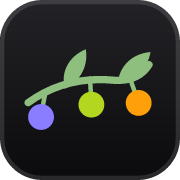
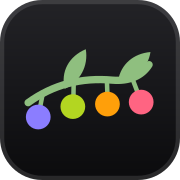
docs(site): give the Hedgerow mark a fourth berry for Wise Wren (#2)
The sprig now carries four berries, Vole violet, Newt lime, Kestrel amber and Wren rose, spaced evenly along the branch. The favicon PNG, Apple touch icon and OG image are regenerated from the SVG, and the OG image alt text names the four colours.

diff --git a/site/index.html b/site/index.html
@@ -32,7 +32,7 @@
     <meta property="og:image:type" content="image/png" />
     <meta property="og:image:width" content="1200" />
     <meta property="og:image:height" content="630" />
-    <meta property="og:image:alt" content="The Hedgerow mark, a sprig with three berries in violet, lime and amber, next to the tagline “Small, self-hosted apps that live together” and the icons of Vigilant Vole, Nimble Newt, Keen Kestrel and Wise Wren." />
+    <meta property="og:image:alt" content="The Hedgerow mark, a sprig with four berries in violet, lime, amber and rose, next to the tagline “Small, self-hosted apps that live together” and the icons of Vigilant Vole, Nimble Newt, Keen Kestrel and Wise Wren." />
     <meta name="twitter:card" content="summary_large_image" />
     <meta name="twitter:title" content="Hedgerow — small, self-hosted apps that live together" />
     <meta
